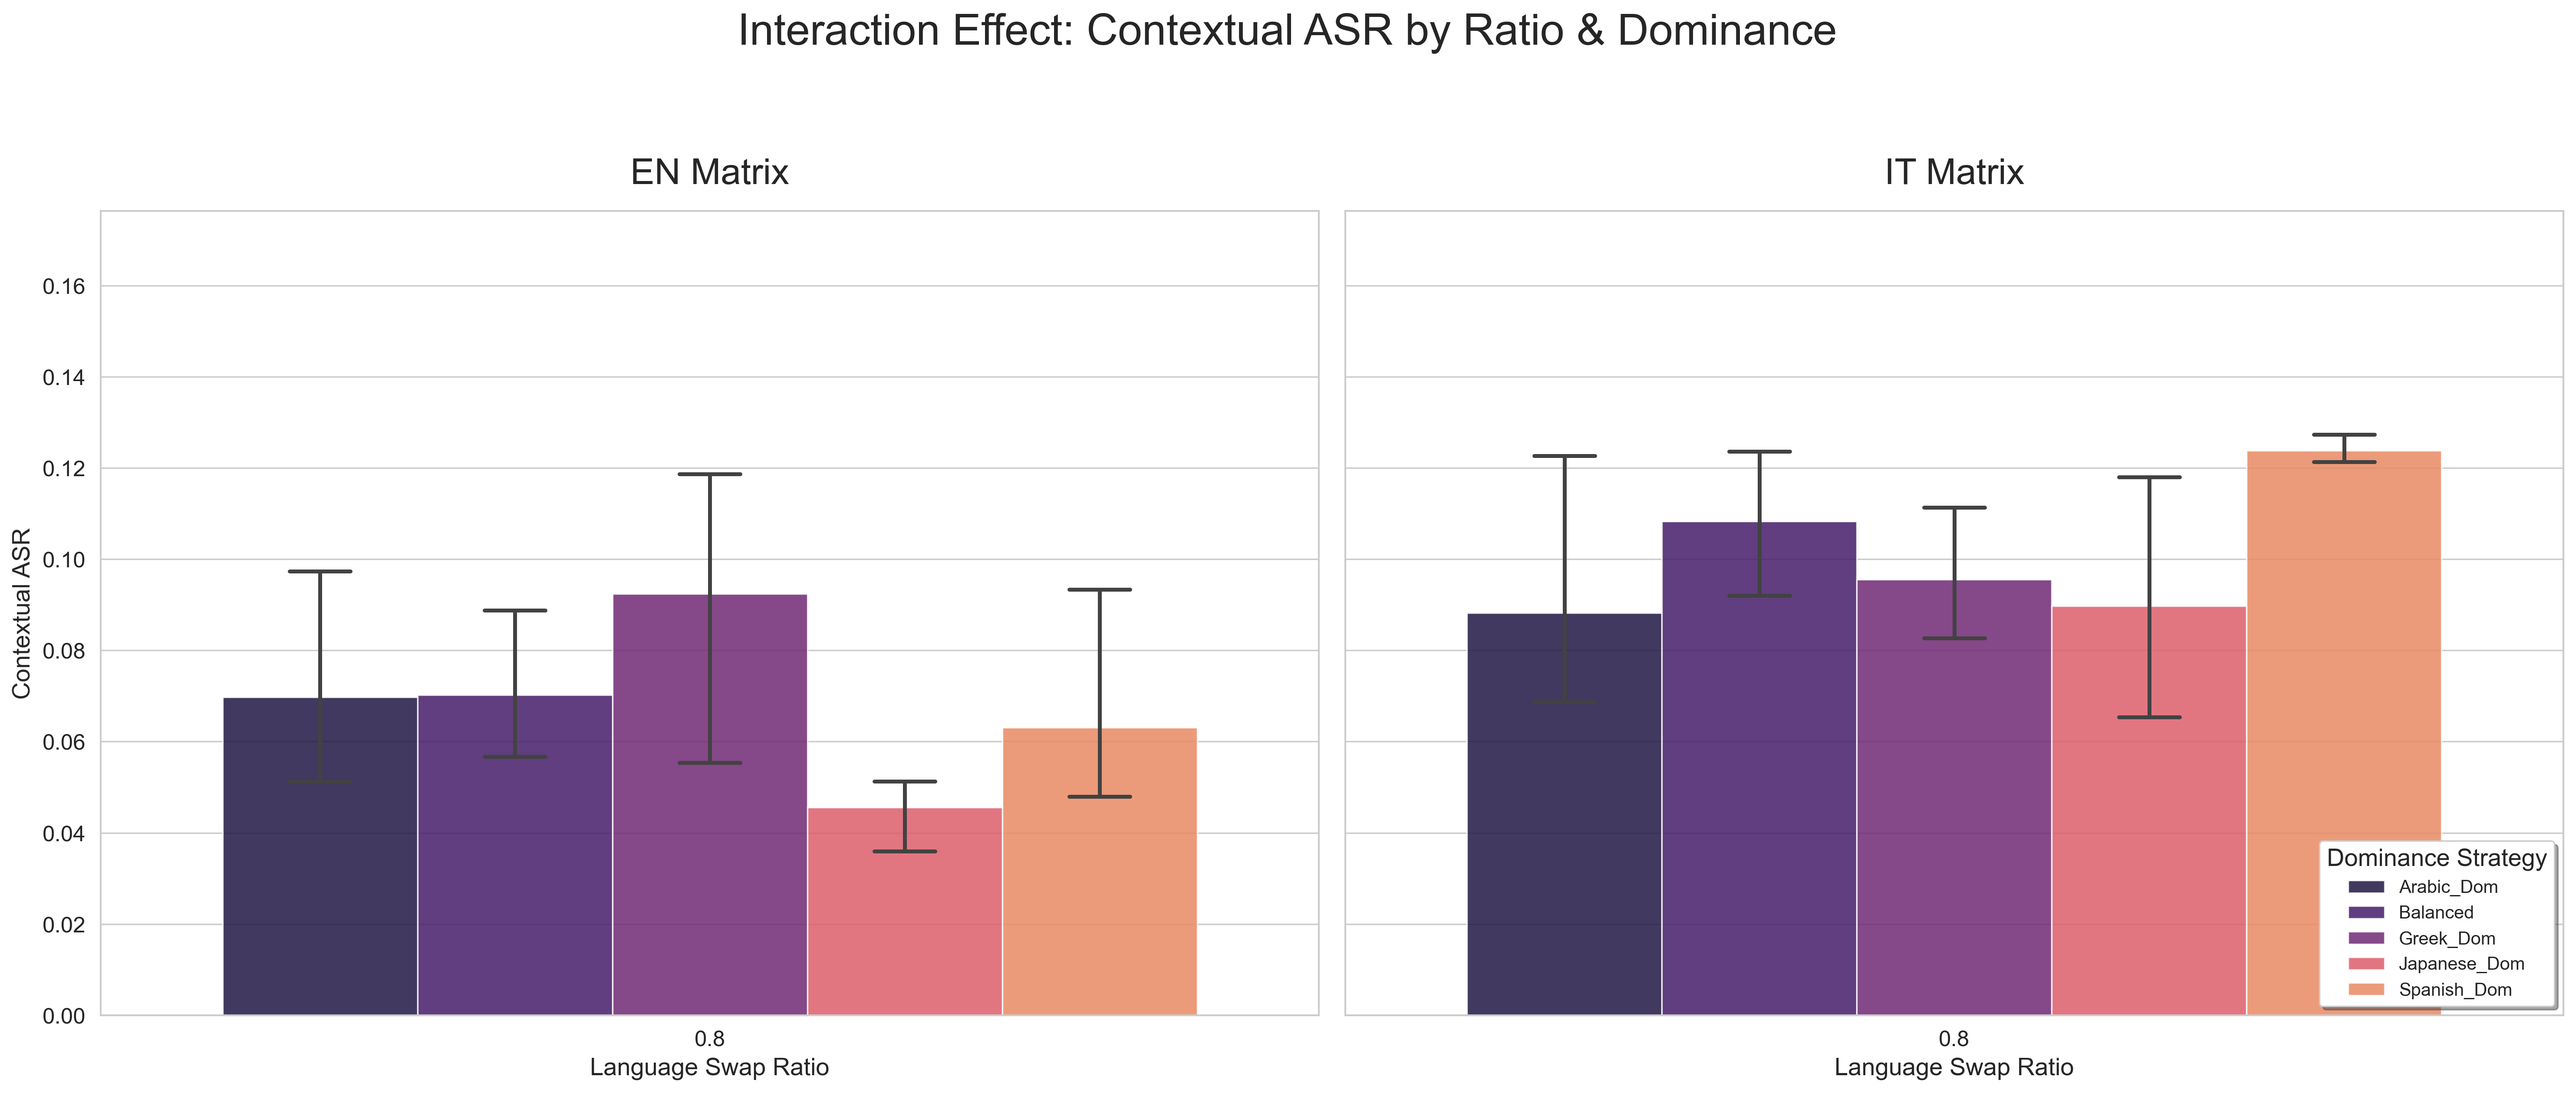
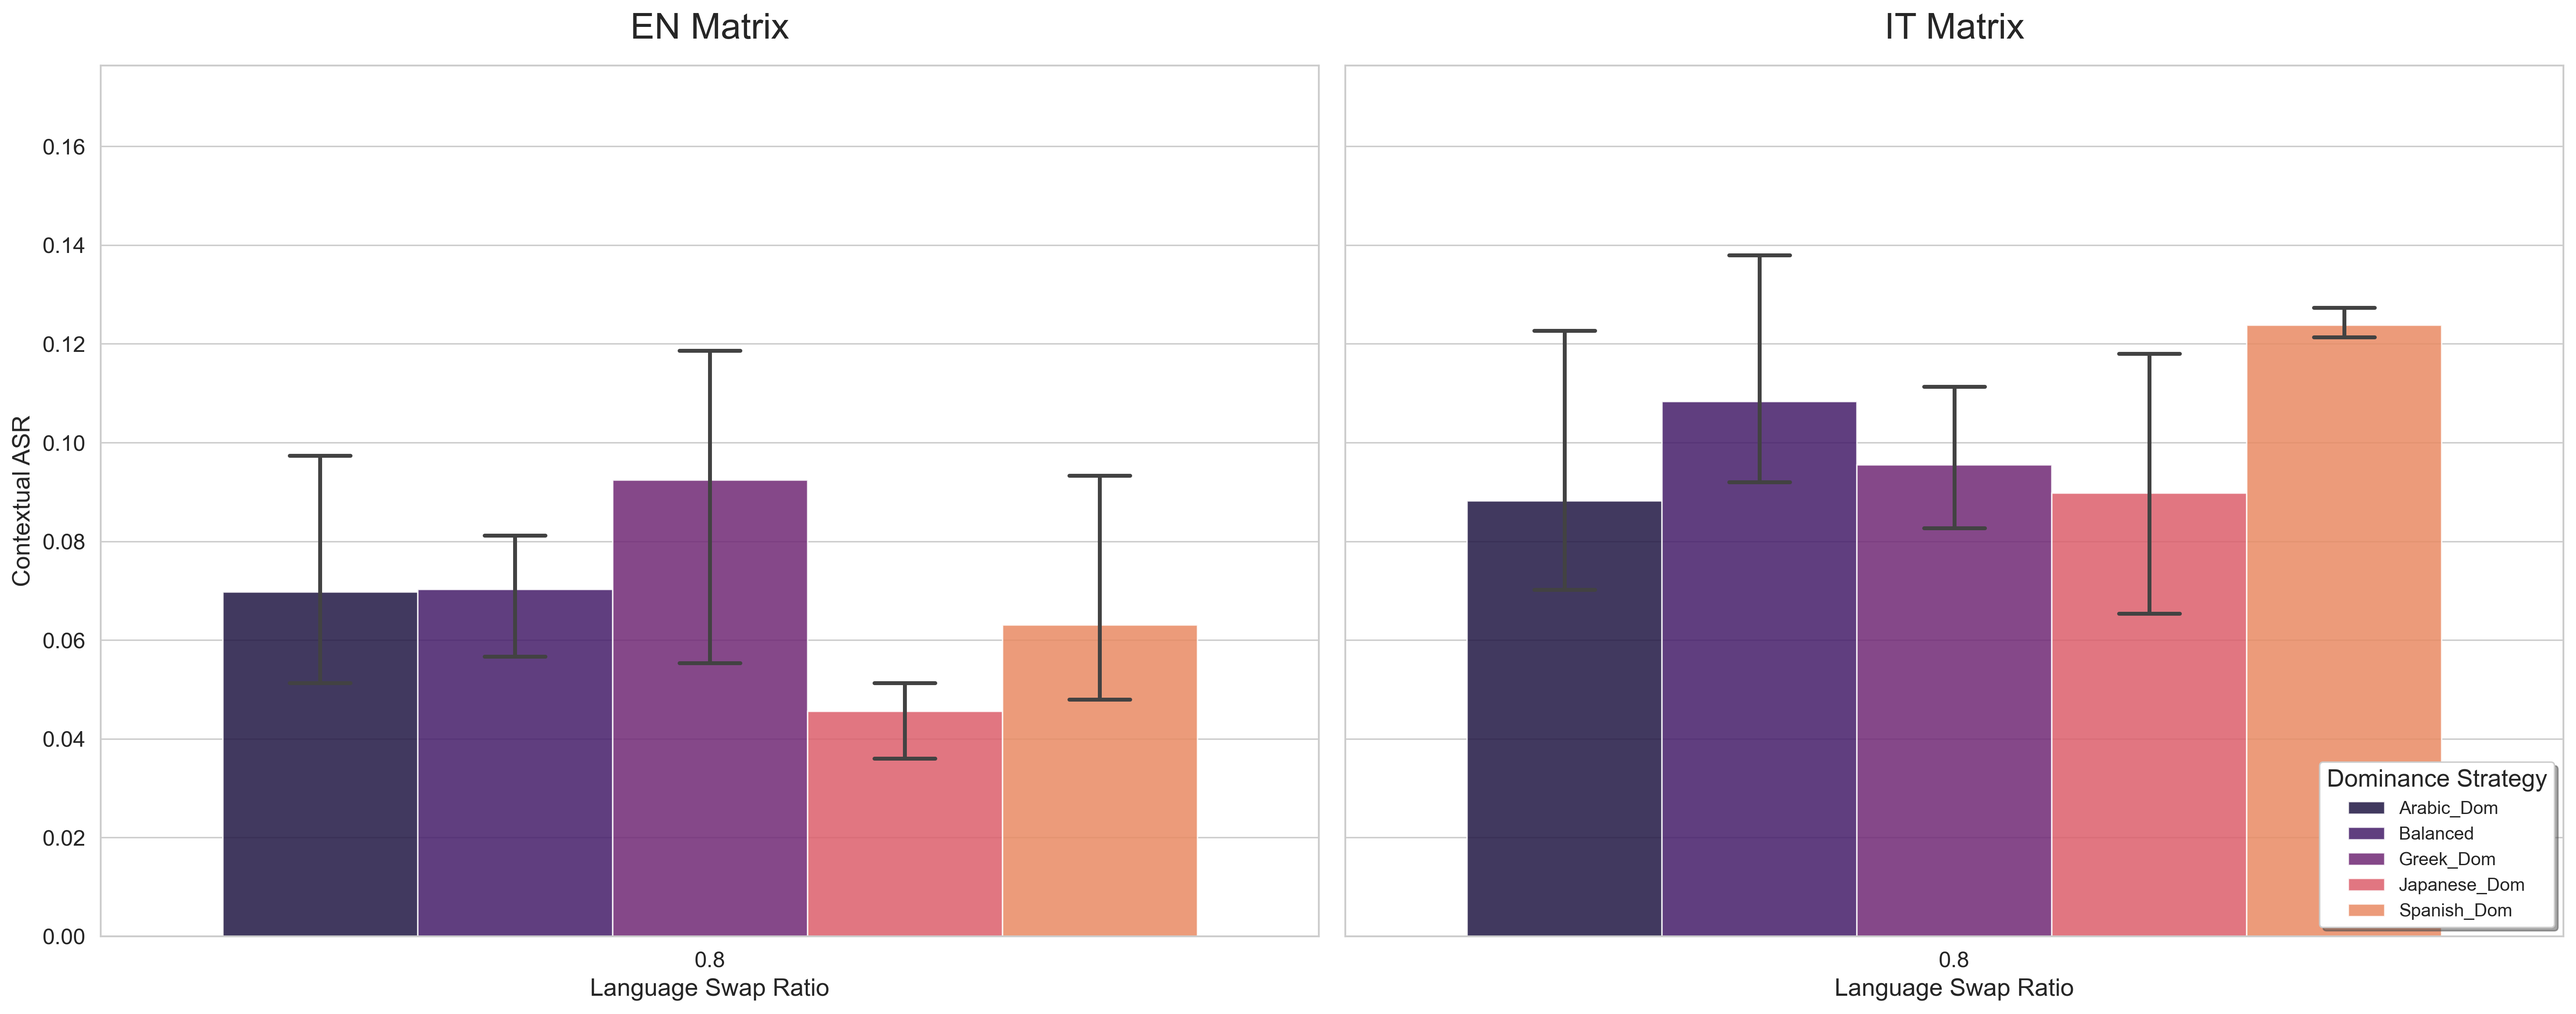
update plots

diff --git a/lib/visualize_config_variance.py b/lib/visualize_config_variance.py
@@ -106,7 +106,7 @@ def visualize_variance(csv_path='experiment_results/metrics_summary.csv',
             axes[1].legend(handles, labels, title="Dominance", loc='lower right', 
                            frameon=True, shadow=True, fontsize=10)
 
-        plt.suptitle(f'{m_label} Distribution Across All Configurations', fontsize=24, y=1.05)
+        # plt.suptitle(f'{m_label} Distribution Across All Configurations', fontsize=24, y=1.05)
         plt.tight_layout()
         plt.savefig(os.path.join(output_dir, f'{metric}_consolidated_spread.png'), dpi=300, bbox_inches='tight')
         plt.close()
@@ -141,7 +141,7 @@ def visualize_variance(csv_path='experiment_results/metrics_summary.csv',
                 axes[1].legend(handles_inter, labels_inter, title="Dominance Strategy", loc='lower right', 
                                frameon=True, shadow=True, fontsize=10)
 
-            plt.suptitle(f'Interaction Effect: {m_label} by Ratio & Dominance', fontsize=24, y=1.05)
+            # plt.suptitle(f'Interaction Effect: {m_label} by Ratio & Dominance', fontsize=24, y=1.05)
             plt.tight_layout()
             plt.savefig(os.path.join(output_dir, f'{metric}_consolidated_interaction.png'), dpi=300, bbox_inches='tight')
             plt.close()
@@ -224,7 +224,7 @@ def visualize_variance(csv_path='experiment_results/metrics_summary.csv',
         if handles:
             axes[1].legend(handles, labels, title="Dominance Strategy", loc='upper right', frameon=True, fontsize=12, title_fontsize=14)
             
-        plt.suptitle('Response Classes Distribution by Swap Type', fontsize=26, y=1.05)
+        # plt.suptitle('Response Classes Distribution by Swap Type', fontsize=26, y=1.05)
         # Prevent cutoff of bottom text labels
         plt.subplots_adjust(bottom=0.25)
         plt.savefig(os.path.join(output_dir, 'Response_Classes_consolidated_spread.png'), dpi=300, bbox_inches='tight')
@@ -274,7 +274,7 @@ def visualize_variance(csv_path='experiment_results/metrics_summary.csv',
                     labels = [m.replace('Pct_', '').replace('_', ' ') for m in available_stack]
                     axes[i].legend(labels, title="Response Class", loc='upper right', bbox_to_anchor=(1.25, 1.05), frameon=True, shadow=True, fontsize=10)
                                    
-            plt.suptitle('Average Response Class Composition by Swap Type', fontsize=24, y=1.05)
+            # plt.suptitle('Average Response Class Composition by Swap Type', fontsize=24, y=1.05)
             plt.tight_layout()
             plt.savefig(os.path.join(output_dir, 'Response_Classes_stacked_bar.png'), dpi=300, bbox_inches='tight')
             plt.close()
@@ -301,7 +301,7 @@ def visualize_variance(csv_path='experiment_results/metrics_summary.csv',
                 axes[i].tick_params(axis='x', rotation=0)
                 axes[i].tick_params(axis='y', rotation=0)
                 
-            plt.suptitle('Heatmap: Average Response Rate across Configurations', fontsize=24, y=1.05)
+            # plt.suptitle('Heatmap: Average Response Rate across Configurations', fontsize=24, y=1.05)
             plt.tight_layout()
             plt.savefig(os.path.join(output_dir, 'Response_Classes_heatmap.png'), dpi=300, bbox_inches='tight')
             plt.close()
@@ -330,7 +330,7 @@ def visualize_variance(csv_path='experiment_results/metrics_summary.csv',
                 else:
                     axes[i].legend(title="Response Class", loc='upper left', bbox_to_anchor=(1.05, 1.0), frameon=True, shadow=True, fontsize=11)
             
-            plt.suptitle('Trends in Defense & Attack Complexity', fontsize=24, y=1.05)
+            # plt.suptitle('Trends in Defense & Attack Complexity', fontsize=24, y=1.05)
             plt.tight_layout()
             plt.savefig(os.path.join(output_dir, 'Response_Classes_trend_lines.png'), dpi=300, bbox_inches='tight')
             plt.close()

diff --git a/lib/visualize_prompt_asr.py b/lib/visualize_prompt_asr.py
@@ -70,7 +70,7 @@ def visualize_prompt_asr():
             axes[i].set_ylabel(f'Prompt {label}' if i == 0 else "")
             axes[i].set_xlabel('Swap Type')
 
-        plt.suptitle(f'{label} Distribution per Prompt', fontsize=16, y=1.02)
+        # plt.suptitle(f'{label} Distribution per Prompt', fontsize=16, y=1.02)
         plt.tight_layout()
         plt.savefig(os.path.join(output_dir, f'{metric}_consolidated_violin.png'), dpi=300, bbox_inches='tight')
         plt.close()
@@ -97,12 +97,12 @@ def visualize_prompt_asr():
             else:
                 axes[i].legend(title='Swap Type', loc='lower right', frameon=True, shadow=True)
 
-        plt.suptitle(f'Cumulative Distribution of {label}', fontsize=16, y=1.02)
+        # plt.suptitle(f'Cumulative Distribution of {label}', fontsize=16, y=1.02)
         plt.tight_layout()
         plt.savefig(os.path.join(output_dir, f'{metric}_consolidated_ecdf.png'), dpi=300, bbox_inches='tight')
         plt.close()
 
-    print(f"\n✅ Consolidated Prompt ASR plots saved to {output_dir}")
+    print(f"\nConsolidated Prompt ASR plots saved to {output_dir}")
 
 if __name__ == "__main__":
     visualize_prompt_asr()

diff --git a/lib/visualize_results.py b/lib/visualize_results.py
@@ -86,7 +86,7 @@ def visualize_means_with_cis(csv_path='experiment_results/aggregated_results.csv
             axes[1].legend(handles, labels, title="Swap Type", loc='lower right', 
                            frameon=True, shadow=True, fontsize=10)
 
-            plt.suptitle(f'{metric_label} by Strategy', fontsize=24, y=1.05)
+            # plt.suptitle(f'{metric_label} by Strategy', fontsize=24, y=1.05)
             plt.tight_layout()
             plt.savefig(os.path.join(output_dir, f'{metric}_consolidated_ci_spread.png'), dpi=300, bbox_inches='tight')
             plt.close()
